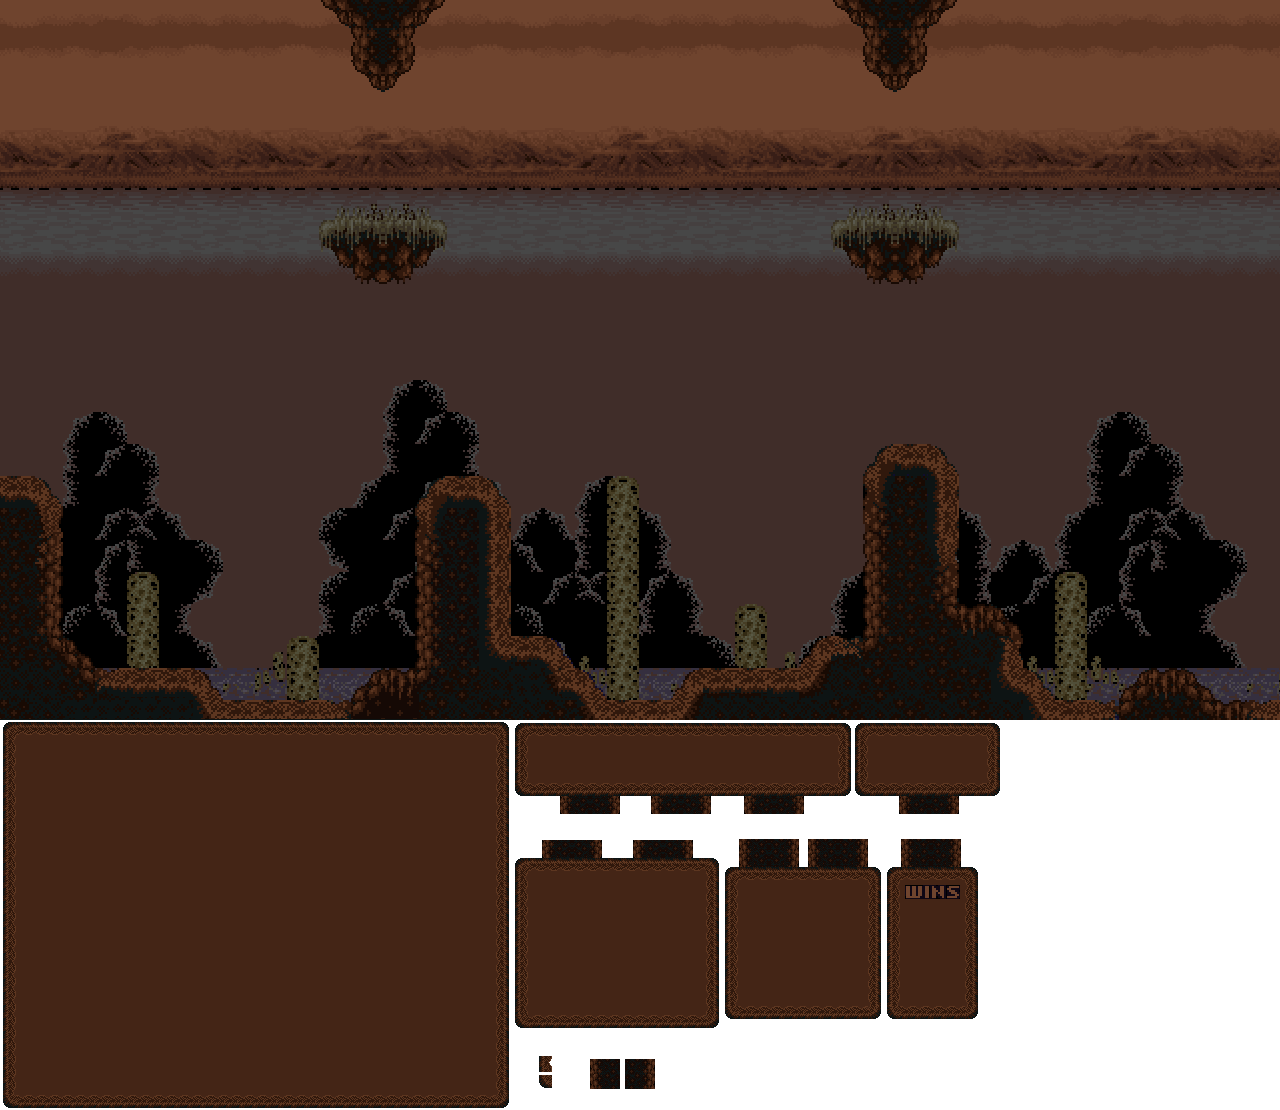
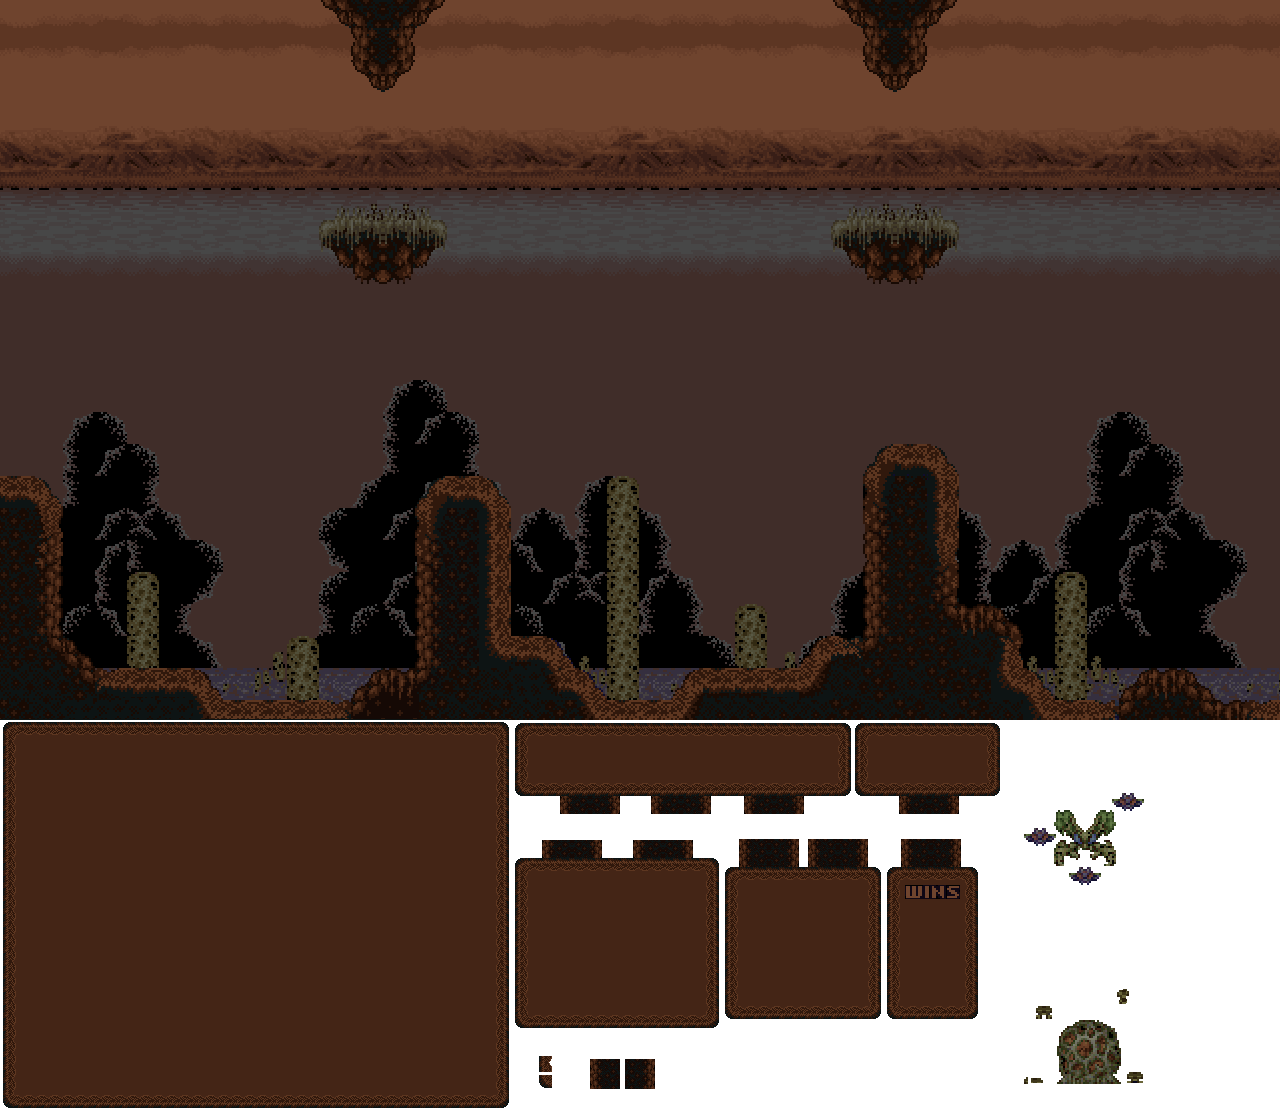
Add new themes, fix theme slider positioning

Changed region(s): [[0.8125, 0.9189, 0.9062, 0.9802], [0.7812, 0.7351, 0.875, 0.7964], [0.875, 0.7045, 0.9062, 0.7351]]

diff --git a/src/components/SliderThemeSetting.tsx b/src/components/SliderThemeSetting.tsx
@@ -11,7 +11,7 @@ export type SliderSettingProps = {
 }
 
 // Space is tight, so line up the marks based on the width of the text, don't change the order of themeValues or this will break!
-export const themeSliderValues = [0,49,107,151,192,247,303]
+export const themeSliderValues = [0,49,108,153,195,248,303]
 export const createThemeMarks = (values: string[]): Mark[] => {
     return values.map((label, index) => { return { value: themeSliderValues[index], label } })
 }
@@ -21,9 +21,9 @@ export const getThemeSliderIndex = (val: number) => {
         return 1;
     } else if (val < 78) {
         return 2;
-    } else if (val < 129) {
+    } else if (val < 130) {
         return 3;
-    } else if (val < 172) {
+    } else if (val < 174) {
         return 4;
     } else if (val < 220) {
         return 5;
@@ -41,14 +41,14 @@ export const roundThemeSlider = (val: number) => {
         return 0;
     } else if (val < 78) {
         return 49;
-    } else if (val < 129) {
-        return 107;
-    } else if (val < 172) {
-        return 151;
+    } else if (val < 130) {
+        return 108;
+    } else if (val < 174) {
+        return 153;
     } else if (val < 220) {
-        return 192;
+        return 195;
     } else if (val < 275) {
-        return 247;
+        return 248;
     } else if (val < 304) {
         return 303;
     } else {
